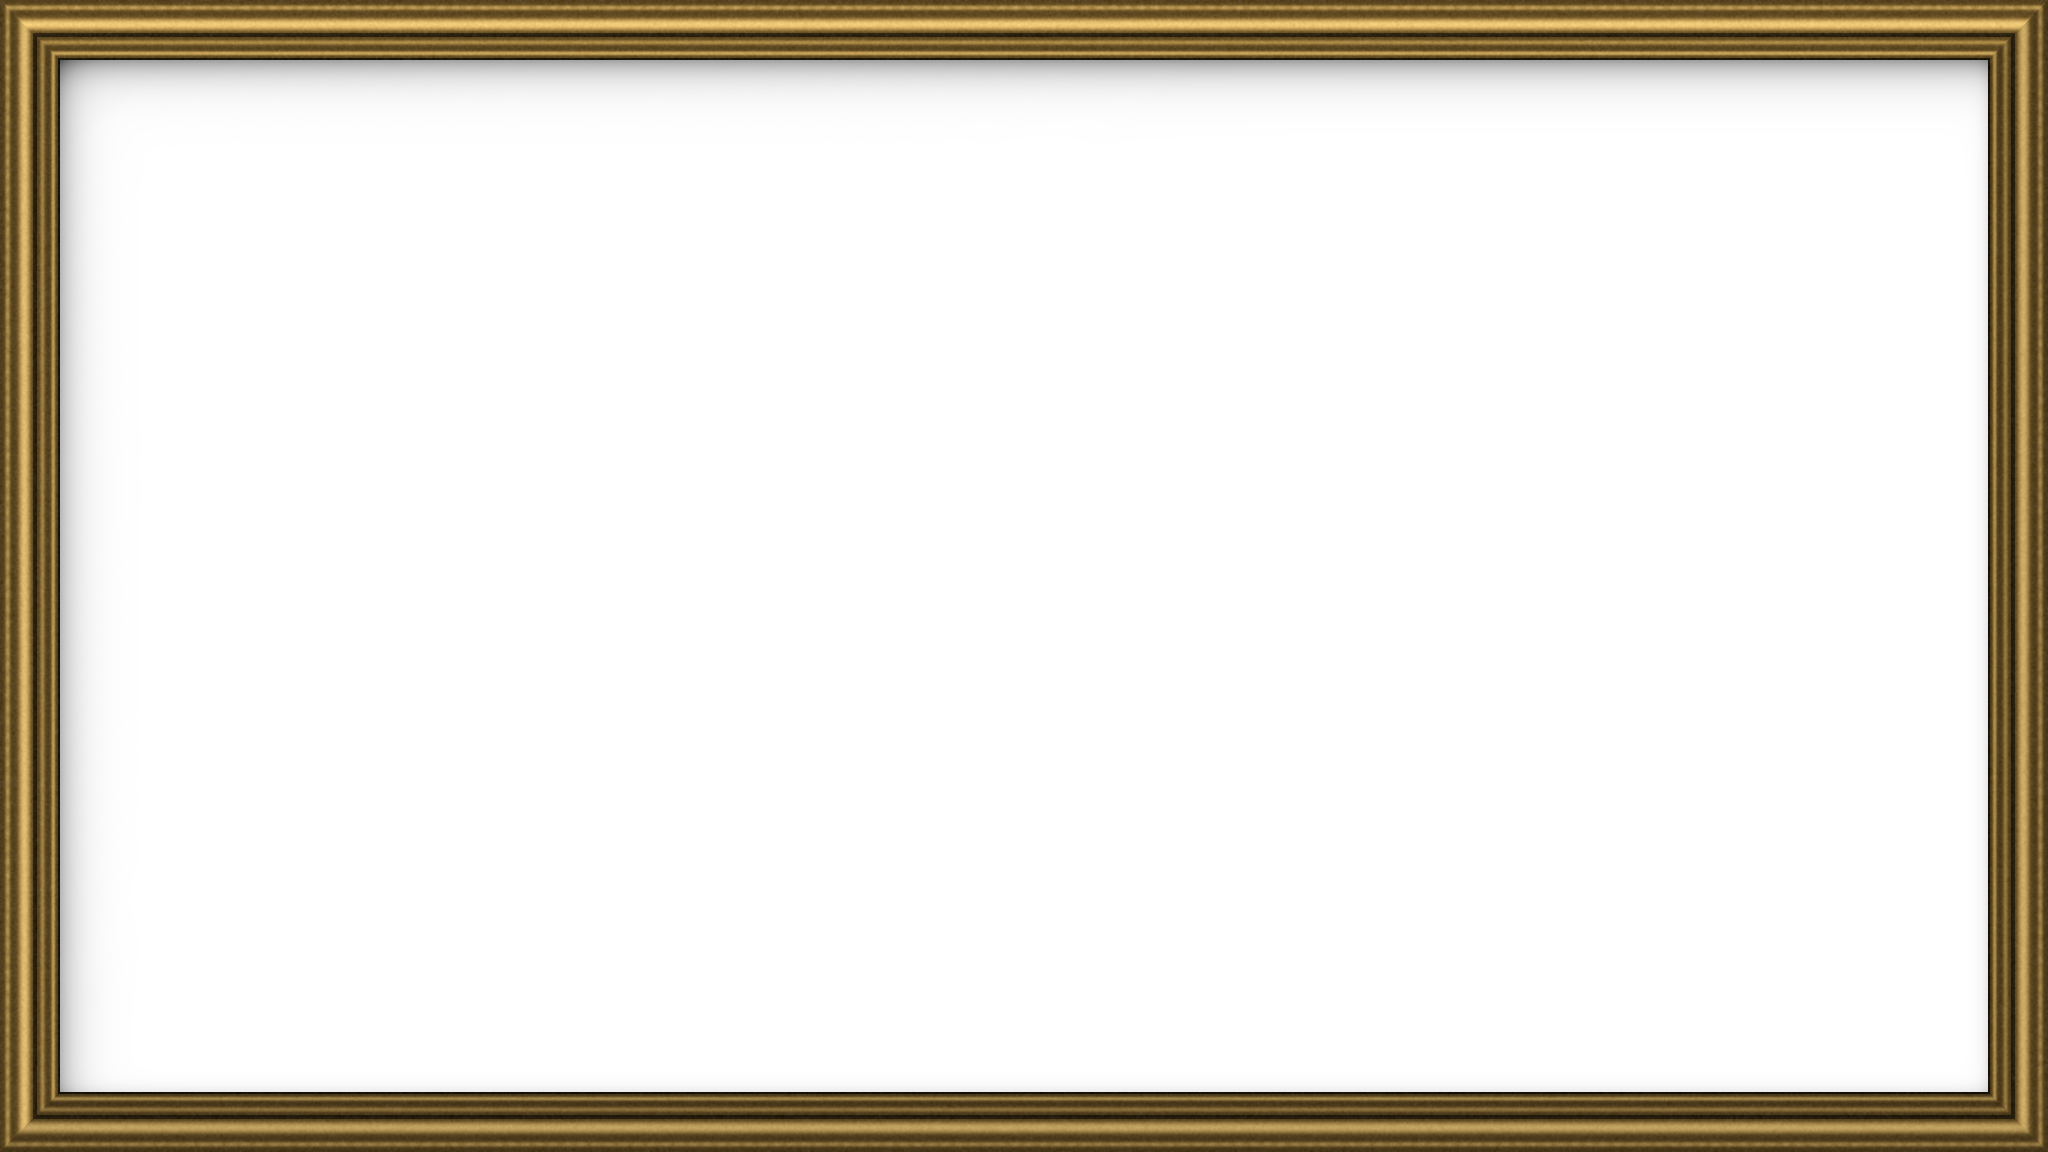
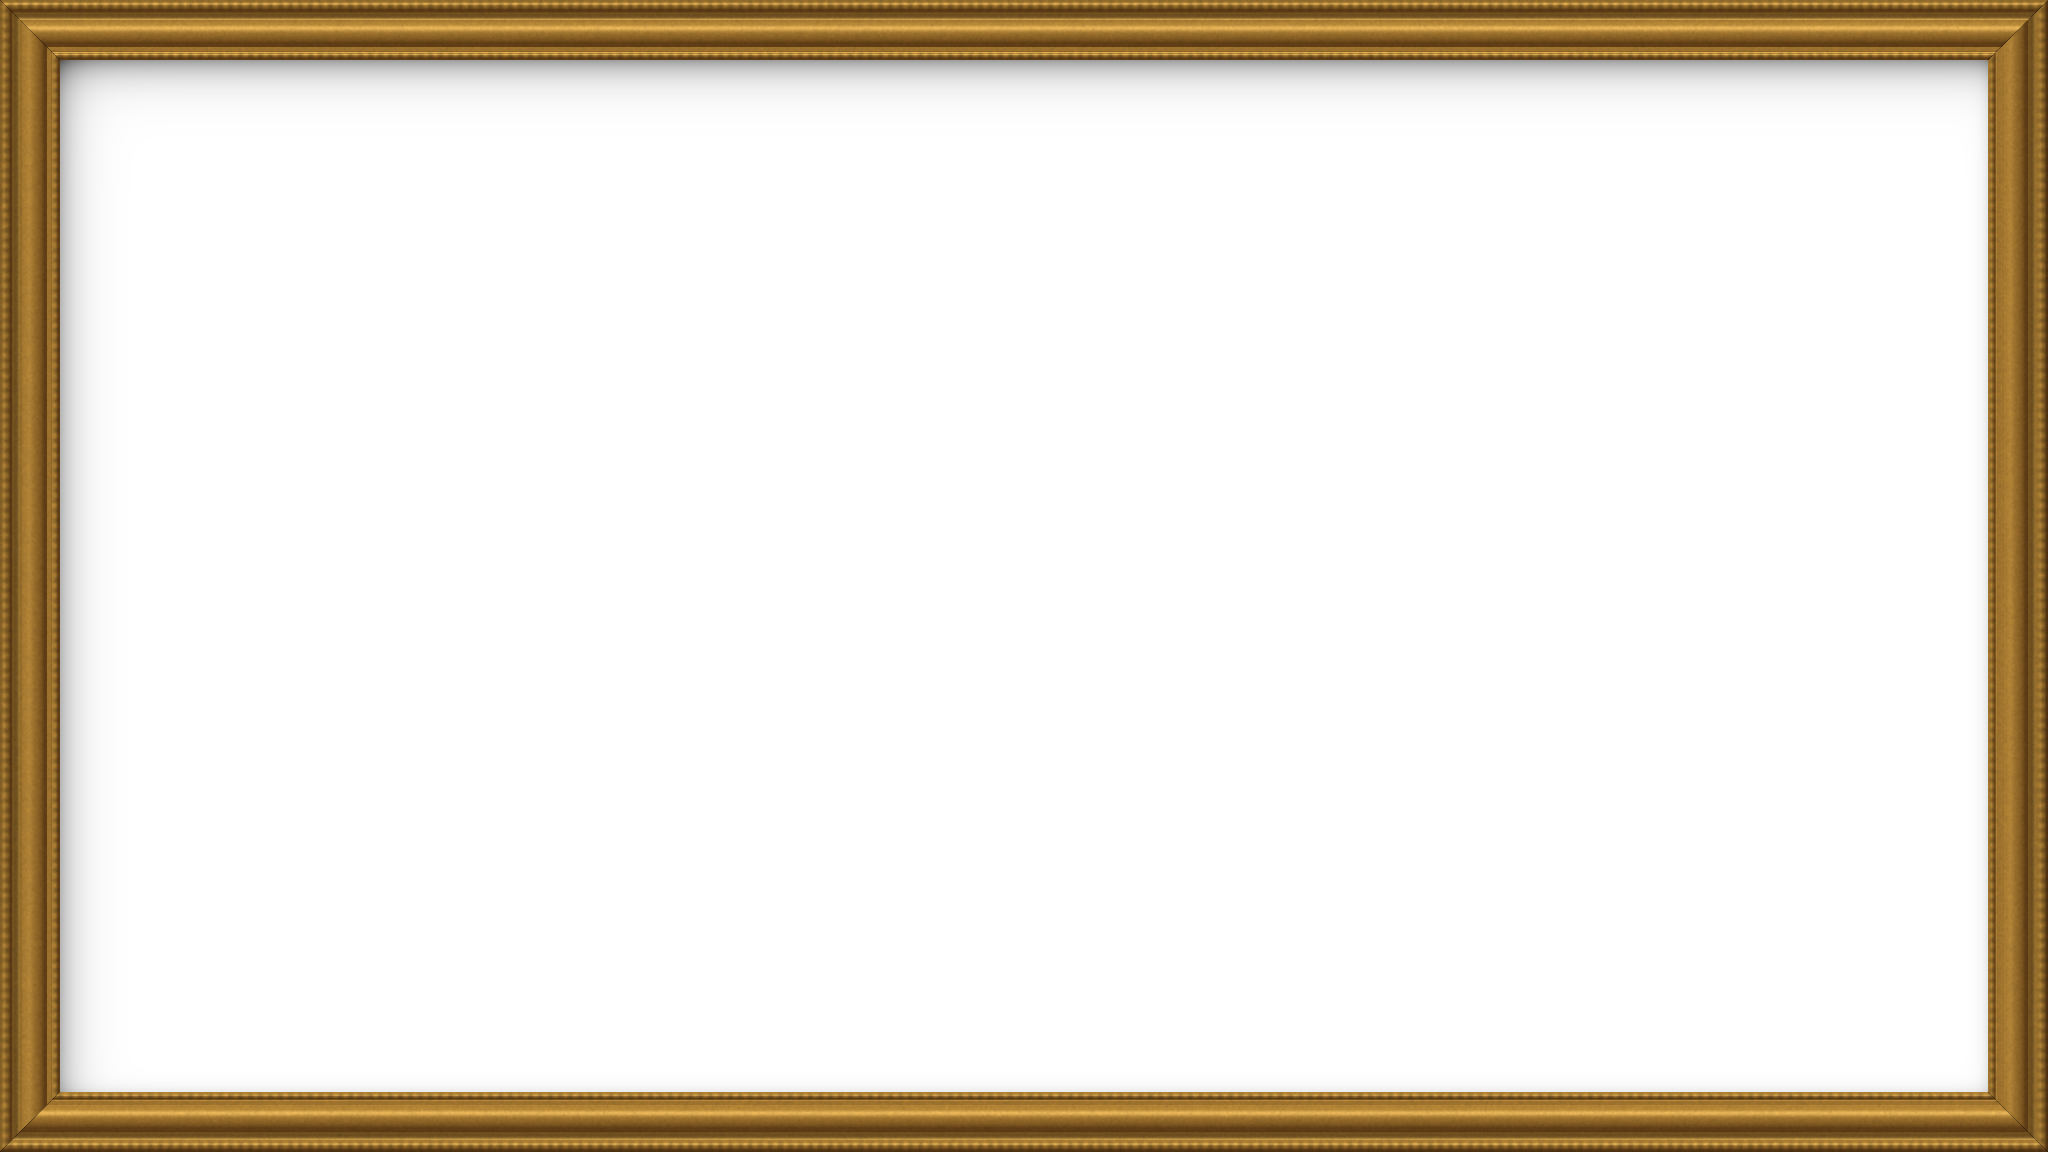
Textured, lit frames; thinner walnut gap

Changed region(s): [[0.0, 0.0, 1.0, 1.0]]

diff --git a/scripts/real_frames.py b/scripts/real_frames.py
@@ -1,0 +1,251 @@
+"""Photo-textured, lit frame mouldings (v2 look) for all Wall Art frames.
+
+Wood grain comes from CC0 veneer textures from Poly Haven (polyhaven.com), put in ./tex:
+  oak_veneer_01.jpg, ash_veneer.jpg, walnut_veneer_02.jpg
+Each moulding has a real cross-section profile, lit from the top left with a finish-specific highlight,
+mitred corners with a visible seam, and (where used) a paper-textured mat with a lit bevel.
+Output matches make_frames.py: 2048x1152 RGBA, opaque frame + mat, see-through window that carries
+only the inner shadow. Geometry is identical to make_frames.py, so frames.json does not change.
+"""
+import os
+import numpy as np
+from PIL import Image
+from scipy.ndimage import gaussian_filter, map_coordinates
+
+W, H = 2048, 1152
+HERE = os.path.dirname(os.path.abspath(__file__))
+TEX = os.path.join(HERE, "tex")
+OUT = os.path.join(HERE, "out_v2")
+YY, XX = np.mgrid[0:H, 0:W].astype(np.float32)
+LIGHT = np.array([-0.45, -0.65, 0.62], np.float32)
+LIGHT /= np.linalg.norm(LIGHT)
+HALF = LIGHT + np.array([0, 0, 1], np.float32)
+HALF /= np.linalg.norm(HALF)
+INWARD = np.array([[0, 1], [0, -1], [1, 0], [-1, 0]], np.float32)   # top, bottom, left, right
+
+
+# ------------------------------------------------------------------ helpers
+def load_tex(name, grain="vertical"):
+    t = np.asarray(Image.open(os.path.join(TEX, name)).convert("RGB"), np.float32)
+    return np.ascontiguousarray(np.rot90(t)) if grain == "horizontal" else t
+
+
+def sample(tex, rows, cols):
+    h, w, _ = tex.shape
+    return np.stack([map_coordinates(tex[..., k], [np.mod(rows, h - 1), np.mod(cols, w - 1)], order=1, mode="wrap")
+                     for k in range(3)], -1)
+
+
+def ring(outer, width):
+    x0, y0, x1, y1 = outer
+    stack = np.stack([YY - y0, (y1 - 1) - YY, XX - x0, (x1 - 1) - XX])
+    inside = (stack >= 0).all(0)
+    d, side = stack.min(0), stack.argmin(0)
+    srt = np.sort(stack, axis=0)
+    return inside & (d < width), d, side, srt[1] - srt[0]
+
+
+def smooth(a, b, x):
+    t = np.clip((x - a) / (b - a), 0, 1)
+    return t * t * (3 - 2 * t)
+
+
+def bump(u, c, w):
+    return np.clip(1 - ((u - c) / w) ** 2, 0, 1) ** 0.5
+
+
+# ------------------------------------------------------------------ profiles: u = 0 outer .. 1 inner
+def oak_profile(u):
+    outer = np.clip(u / 0.10, 0, 1) ** 0.5 * 0.55
+    crown = 0.55 + 0.45 * np.clip(np.sin(np.clip((u - 0.05) / 0.72, 0, 1) * np.pi), 0, 1) ** 0.8
+    h = np.where(u < 0.10, outer, crown)
+    step = 0.48 + 0.08 * np.cos(np.clip((u - 0.80) / 0.20, 0, 1) * np.pi)
+    return np.where(u > 0.80, np.minimum(h, step), h)
+
+
+def gallery_profile(u):
+    """Slim flat-faced gallery moulding with eased edges and a small inner lip."""
+    return 0.7 * smooth(0.0, 0.18, u) + 0.3 - 0.35 * smooth(0.82, 1.0, u)
+
+
+def gold_profile(u):
+    """Classic stepped gilt moulding: outer bead, cove, big torus, flat, inner bead."""
+    h = 0.35 + 0.30 * bump(u, 0.09, 0.09)                     # outer bead
+    h = np.where((u > 0.18) & (u < 0.34), 0.30 + 0.10 * (1 - bump(u, 0.26, 0.08)), h)  # cove
+    h = np.where((u >= 0.34) & (u < 0.76), 0.40 + 0.60 * bump(u, 0.55, 0.21), h)       # torus
+    h = np.where((u >= 0.76) & (u < 0.86), 0.42, h)                                     # flat
+    h = np.where(u >= 0.86, 0.30 + 0.22 * bump(u, 0.92, 0.06), h)                       # inner bead
+    return h
+
+
+def floater_profile(u):
+    """Floater: flat top with a rounded outer edge, then a vertical inner wall down to the gap."""
+    return 0.8 * smooth(0.0, 0.2, u) + 0.2 - 0.95 * smooth(0.72, 0.98, u)
+
+
+# ------------------------------------------------------------------ finishes
+def lum_of(c):
+    l = c @ np.array([0.299, 0.587, 0.114], np.float32)
+    return l / (l[l > 0].mean() + 1e-6)          # normalise over the moulding only (rest of the canvas is 0)
+
+
+def finish_natural(c, u, diff, spec, **_):
+    return c * (0.42 + 0.78 * diff)[..., None] + (255 * 0.22 * spec)[..., None]
+
+
+def finish_black(c, u, diff, spec, **_):
+    grain = 1 + (lum_of(c) - 1) * 2.5                       # faint open grain under satin black paint
+    base = np.array([20, 19, 21], np.float32) * grain.clip(0.5, 1.6)[..., None]
+    base = base * (0.60 + 0.55 * diff)[..., None]
+    return base + (255 * 0.13 * spec ** 0.7)[..., None] * np.array([0.95, 0.96, 1.0], np.float32)
+
+
+def finish_walnut(c, u, diff, spec, **_):
+    grain = 1 + (lum_of(c) - 1) * 3.0                       # oiled walnut: dark, strong figure
+    rich = np.array([74, 46, 31], np.float32) * grain.clip(0.35, 1.9)[..., None]
+    return rich * (0.50 + 0.70 * diff)[..., None] + (255 * 0.14 * spec ** 0.8)[..., None]
+
+
+def finish_gold(c, u, diff, spec, along=None, **_):
+    dark = np.array([96, 62, 22], np.float32)
+    mid = np.array([190, 142, 58], np.float32)
+    hi = np.array([255, 232, 160], np.float32)
+    t = diff[..., None]
+    col = dark * (1 - t) + mid * t
+    col = col + hi * (spec ** 0.7)[..., None] * 0.85
+    # gilding: fine burnish noise and slightly rubbed high points
+    col *= (1 + c)[..., None]
+    # bead decoration along the outer bead and inner bead
+    if along is not None:
+        beads = 0.5 + 0.5 * np.cos(along / 5.0 * np.pi)
+        outer_bead = np.exp(-((u - 0.09) / 0.07) ** 2)
+        inner_bead = np.exp(-((u - 0.92) / 0.05) ** 2)
+        col *= (1 - 0.22 * beads * (outer_bead + inner_bead))[..., None]
+    cove = np.exp(-((u - 0.26) / 0.06) ** 2)
+    col *= (1 - 0.30 * cove)[..., None]
+    return col
+
+
+# ------------------------------------------------------------------ painting
+def paint_moulding(img, width, profile, depth, finish, tex=None, finish_px=None):
+    mask, d, side, mitre = ring((0, 0, W, H), width)
+    u = np.clip(d / width, 0, 1)
+    eps = 1.0 / width
+    dh = (profile(np.clip(u + eps, 0, 1)) - profile(np.clip(u - eps, 0, 1))) / (2 * eps)
+    slope = dh * depth / width
+    g = INWARD[side] * slope[..., None]
+    n = np.dstack([-g[..., 0], -g[..., 1], np.ones_like(slope)])
+    n /= np.linalg.norm(n, axis=-1, keepdims=True)
+    diff = np.clip((n * LIGHT).sum(-1), 0, 1)
+    spec = np.clip((n * HALF).sum(-1), 0, 1) ** 60
+    along = np.where(side < 2, XX, YY)
+
+    if tex is not None:
+        texr = np.rot90(tex)
+        offs = [(137, 911), (1203, 305), (563, 1471), (1719, 77)]
+        col = np.zeros((H, W, 3), np.float32)
+        for s in range(4):
+            m = mask & (side == s)
+            ro, co = offs[s]
+            col[m] = (sample(texr, d[m] + ro, XX[m] + co) if s < 2 else sample(tex, YY[m] + ro, d[m] + co))
+        c = col
+    else:   # untextured finish (gold): pass a fine burnish noise instead
+        rng = np.random.default_rng(5)
+        c = gaussian_filter(rng.standard_normal((H, W)).astype(np.float32), (0.8, 0.8)) * 0.05 \
+            + gaussian_filter(rng.standard_normal((H, W)).astype(np.float32), 12) * 0.08
+    out = finish(c, u, diff, spec, along=along)
+    out *= (1 - 0.18 * np.exp(-(u / 0.03) ** 2))[..., None]                 # darker outer edge
+    out *= (1 - 0.35 * np.exp(-(mitre / 0.7) ** 2))[..., None]              # mitre seam
+    img[mask] = out[mask]
+    return img
+
+
+def paper_mat(img, mat_box, win, color, bevel=7):
+    x0, y0, x1, y1 = mat_box
+    rng = np.random.default_rng(3)
+    m = (XX >= x0) & (XX < x1) & (YY >= y0) & (YY < y1)
+    grain = gaussian_filter(rng.standard_normal((H, W)).astype(np.float32), 0.7) * 2.2
+    fibre = gaussian_filter(rng.standard_normal((H, W)).astype(np.float32), (0.8, 6)) * 1.6
+    blotch = gaussian_filter(rng.standard_normal((H, W)).astype(np.float32), 40) * 25
+    paper = np.array(color, np.float32) + (grain + fibre + blotch)[..., None]
+    img[m] = paper[m]
+    dl, dt, dr, db = XX - x0, YY - y0, x1 - XX, y1 - YY
+    sh = np.exp(-dt / 14) * 0.30 + np.exp(-dl / 14) * 0.22 + np.exp(-db / 6) * 0.08 + np.exp(-dr / 6) * 0.10
+    img *= (1 - np.clip(sh, 0, 0.45) * m)[..., None]
+    wx0, wy0, wx1, wy1 = win
+    bm, bd, bs, bmitre = ring((wx0 - bevel, wy0 - bevel, wx1 + bevel, wy1 + bevel), bevel)
+    face = {0: (0, -0.7), 1: (0, 0.7), 2: (-0.7, 0), 3: (0.7, 0)}
+    lum = np.zeros((H, W), np.float32)
+    for s, (fx, fy) in face.items():
+        nv = np.array([fx, fy, 0.7], np.float32)
+        nv /= np.linalg.norm(nv)
+        lum[bs == s] = 0.72 + 0.34 * max(0.0, float(nv @ LIGHT))
+    bcol = np.array([252, 250, 244], np.float32) * lum[..., None]
+    bcol *= (1 - np.exp(-(bmitre / 0.6) ** 2) * 0.12)[..., None]
+    bcol *= (1 - np.exp(-((bd - (bevel - 0.5)) / 0.6) ** 2) * 0.18)[..., None]
+    img[bm] = bcol[bm]
+    return img
+
+
+def floater_gap(img, box, win):
+    """Dark recess between a floater moulding and the photo."""
+    x0, y0, x1, y1 = box
+    m = (XX >= x0) & (XX < x1) & (YY >= y0) & (YY < y1)
+    img[m] = np.array([24, 20, 18], np.float32)
+    return img
+
+
+def inner_shadow(win, depth=26, strength=0.42):
+    x0, y0, x1, y1 = win
+    inside = ((XX >= x0) & (XX < x1) & (YY >= y0) & (YY < y1)).astype(np.float32)
+    dt, dl = np.clip(YY - y0, 0, None), np.clip(XX - x0, 0, None)
+    db, dr = np.clip(y1 - YY, 0, None), np.clip(x1 - XX, 0, None)
+    s = (np.exp(-dt / depth) + 0.75 * np.exp(-dl / depth)
+         + 0.25 * np.exp(-db / (depth * 0.4)) + 0.3 * np.exp(-dr / (depth * 0.4)))
+    return np.clip(s * strength, 0, 0.7) * inside
+
+
+def build(name, mould, mat, gap, spec, path):
+    img = np.zeros((H, W, 3), np.float32)
+    img = paint_moulding(img, mould, spec["profile"], spec["depth"], spec["finish"], spec.get("tex"))
+    b = mould + mat + gap
+    win = (b, b, W - b, H - b)
+    if mat:
+        img = paper_mat(img, (mould, mould, W - mould, H - mould), win, spec["mat_color"])
+        sh = inner_shadow(win)
+    elif gap:
+        img = floater_gap(img, (mould, mould, W - mould, H - mould), win)
+        sh = inner_shadow(win, depth=8, strength=0.22)
+    else:
+        sh = inner_shadow(win, depth=16, strength=0.38)
+    rgba = np.dstack([np.clip(img, 0, 255), np.full((H, W), 255, np.float32)])
+    wm = (XX >= win[0]) & (XX < win[2]) & (YY >= win[1]) & (YY < win[3])
+    rgba[wm] = 0
+    rgba[..., 3][wm] = sh[wm] * 255
+    Image.fromarray(np.nan_to_num(rgba).astype(np.uint8), "RGBA").save(path, optimize=True)
+    return win
+
+
+if __name__ == "__main__":
+    os.makedirs(OUT, exist_ok=True)
+    oak = load_tex("oak_veneer_01.jpg")
+    ash = load_tex("ash_veneer.jpg", grain="horizontal")
+    walnut = load_tex("walnut_veneer_02.jpg", grain="horizontal")
+    SPECS = {
+        "gallery-black":   dict(mould=30, mat=64, gap=0, profile=gallery_profile, depth=8, finish=finish_black,
+                                tex=ash, mat_color=(244, 241, 234)),
+        "natural-oak":     dict(mould=48, mat=60, gap=0, profile=oak_profile, depth=14, finish=finish_natural,
+                                tex=oak, mat_color=(242, 238, 228)),
+        "classic-gold":    dict(mould=60, mat=44, gap=0, profile=gold_profile, depth=18, finish=finish_gold,
+                                tex=None, mat_color=(238, 232, 218)),
+        "floating-walnut": dict(mould=26, mat=60, gap=6, profile=floater_profile, depth=10, finish=finish_walnut,
+                                tex=walnut, mat_color=(242, 238, 228)),
+    }
+    for fid, s in SPECS.items():
+        if fid == "floating-walnut":
+            wins = [build(fid, s["mould"], 0, s["gap"], s, os.path.join(OUT, "floating-walnut.png")),
+                    build(fid, s["mould"], s["mat"], 0, s, os.path.join(OUT, "floating-walnut-mat.png"))]
+        else:
+            wins = [build(fid, s["mould"], s["mat"], 0, s, os.path.join(OUT, fid + ".png")),
+                    build(fid, s["mould"], 0, 0, s, os.path.join(OUT, fid + "-no-mat.png"))]
+        print(fid, wins)

diff --git a/README.md b/README.md
@@ -23,6 +23,8 @@ The shortcut downloads `frames.json` and the PNGs in `frames/` from this repo ea
 
 ## Scripts
 
+- `scripts/real_frames.py` renders the frame images (photo-textured, lit mouldings). It needs CC0 wood textures from [Poly Haven](https://polyhaven.com) in `scripts/tex/`: `oak_veneer_01.jpg`, `ash_veneer.jpg`, `walnut_veneer_02.jpg` (2k diffuse). Geometry matches `make_frames.py`, so `frames.json` is unchanged.
+
 - `scripts/make_frames.py` draws the starter frames and writes `frames.json`.
 - `scripts/make_shortcut.py` builds the unsigned shortcut. Set `FRAMES_URL` to this repo's raw URL, then sign it on a Mac with
   `shortcuts sign -m anyone -i <unsigned> -o "Wall Art.shortcut"`.
